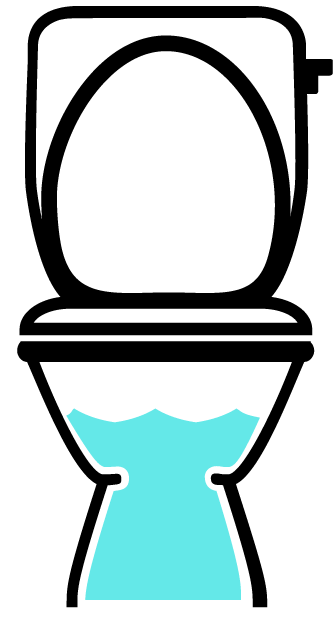
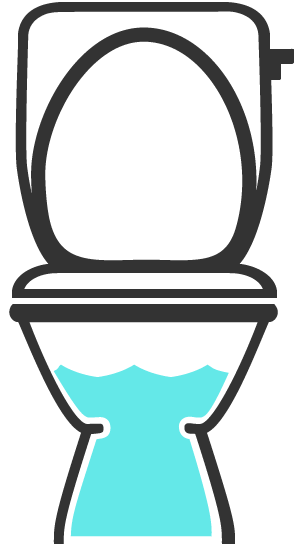
add some animated gif and more layout pizazz

diff --git a/index.html b/index.html
@@ -2,26 +2,27 @@
 <!DOCTYPE html>
 <html lang="en">
 <head>
-<script type="text/javascript" src="//use.typekit.net/hht7xee.js"></script>
-<script type="text/javascript">try{Typekit.load();}catch(e){}</script>
-<meta charset="utf-8">
-<meta name="viewport" content="width=device-width, initial-scale=1.0">
-<meta name="description" content="">
-<meta name="author" content="">
-<link rel="shortcut icon" href="../../assets/ico/favicon.png">
-	<link href='http://fonts.googleapis.com/css?family=Nobile:400,400italic,700,700italic' rel='stylesheet' type='text/css'>
-<title>swirl.ly</title>
+	<script type="text/javascript" src="//use.typekit.net/hht7xee.js"></script>
+	<script type="text/javascript">try{Typekit.load();}catch(e){}</script>
+	<meta charset="utf-8">
+	<meta name="viewport" content="width=device-width, initial-scale=1.0">
+	<meta name="description" content="">
+	<meta name="author" content="">
+	<link rel="shortcut icon" href="../../assets/ico/favicon.png">
+<!-- 		<link href='http://fonts.googleapis.com/css?family=Nobile:400,400italic,700,700italic' rel='stylesheet' type='text/css'>
+ -->	<title>swirl.ly</title>
 
-<!-- Bootstrap core CSS -->
-<link href="dist/css/bootstrap.css" rel="stylesheet">
-<link href="assets/css/sticky-footer-navbar.css" rel="stylesheet">
-<link href="assets/css/styles.css" rel="stylesheet">
+	<!-- Bootstrap core CSS -->
+	<link href="dist/css/bootstrap.css" rel="stylesheet">
+	<link rel="stylesheet" href="assets/css/animations.css">
+	<link href="assets/css/sticky-footer-navbar.css" rel="stylesheet">
+	<link href="assets/css/styles.css" rel="stylesheet">
 
-<!-- HTML5 shim and Respond.js IE8 support of HTML5 elements and media queries -->
-<!--[if lt IE 9]>
-<script src="../../assets/js/html5shiv.js"></script>
-<script src="../../assets/js/respond.min.js"></script>
-<![endif]-->
+	<!-- HTML5 shim and Respond.js IE8 support of HTML5 elements and media queries -->
+	<!--[if lt IE 9]>
+	<script src="../../assets/js/html5shiv.js"></script>
+	<script src="../../assets/js/respond.min.js"></script>
+	<![endif]-->
 </head>
 
 <body>
@@ -29,8 +30,7 @@
 <!-- Wrap all page content here -->
 <div id="wrap">
 
-	<!-- Fixed navbar -->
-	<div class="navbar navbar-default">
+<!-- 	<div class="navbar navbar-default">
 		<div class="container">
 
 			<div class="navbar-header">
@@ -49,11 +49,15 @@
 				</ul>
 		    </nav>
 		</div>
+	</div> -->
+
+	<div id="title" class="col-md-3 col-md-offset-3">
+		<h4> <img src="assets/img/toilcon.png"> swirl.ly <small>the journey of the urban flush</small></h4>
 	</div>
 
 	<!-- Begin page content -->
 	<div class="container">
-		<div class="row">
+		<div class="row no-top-padding">
 			<div class="col-md-6 col-md-offset-3 centered">
 				<button type="button" class="btn btn-aqua btn-lg btn-block">
 					<span class="small">ready, set...</span> 
@@ -63,18 +67,14 @@
 		</div>
 		<div class="row">
 			<div class="col-md-6 col-md-offset-3 centered">
-				<img src="assets/img/toilet.png">
+				<img class="img-responsive toilet" src="assets/img/toilet.png">
 			</div>
 		</div>
 	</div>
-			<div class="row">
-			<div class="floor">
-				<div class="pipe-vertical">
-					&nbsp;
-				</div>
-			</div>
-		</div>
+	<div class="floor">
+	</div>
 </div>
+
 <div id="footer">
 	<div class="container">
 		<p class="text-muted credit text-center">swirl.ly is licensed under Creative Commons | View it on github</p>

diff --git a/assets/css/styles.css b/assets/css/styles.css
@@ -1,5 +1,20 @@
 body {
+	border-top: 5px #66FFFF solid;
 	background: url('../img/tile-bg.png');
+}
+
+#title {
+	position: absolute;
+	top: -7px;
+	background: #ffffff;
+	border-top: 5px #ffffff solid;
+	border-bottom: 5px #66FFFF solid;
+	border-right: 5px #66FFFF solid;
+	border-left: 5px #66FFFF solid;
+	text-align: center;
+	margin-left: 10%;
+	margin-right: 10%;
+	min-width: 320px;
 }
 
 h1 {
@@ -11,13 +26,14 @@ h1 {
 
 .btn-aqua {
   color: #ffffff;
-  background-color: #000;
+  background-color: #333;
   border-color: #669999;
 }
 
 .btn:hover, .btn:focus {
-	color: #669999;
+	color: #66FFFF;
 	text-decoration: none;
+	background-color: #444;
 }
 
 .small {
@@ -32,15 +48,30 @@ h1 {
 	font-weight: 300;
 }
 .floor {
-	background-color: #000;
-	padding-top: 20px;
+	background-color: #333;
 	height: 100px;
 	width: 100%;
-	margin-top: -24px;
+	margin-top: -2px; 
 }
+
 .pipe-vertical {
-	width: 60px;
-	background-color: #ffffff;
+	width: 15px;
+	height: 100%;
+	background-color: #fff;
 	margin-left: auto;
 	margin-right: auto;
+}
+.toilet {
+	margin-top: 20px;
+	display: inline-block;
+	max-width: 200px;
+}
+.processing {
+	background-color: #ffffff;
+	margin-top: 60px;
+}
+
+#footer {
+	background-color: #333;
+	height: 160px;
 }
